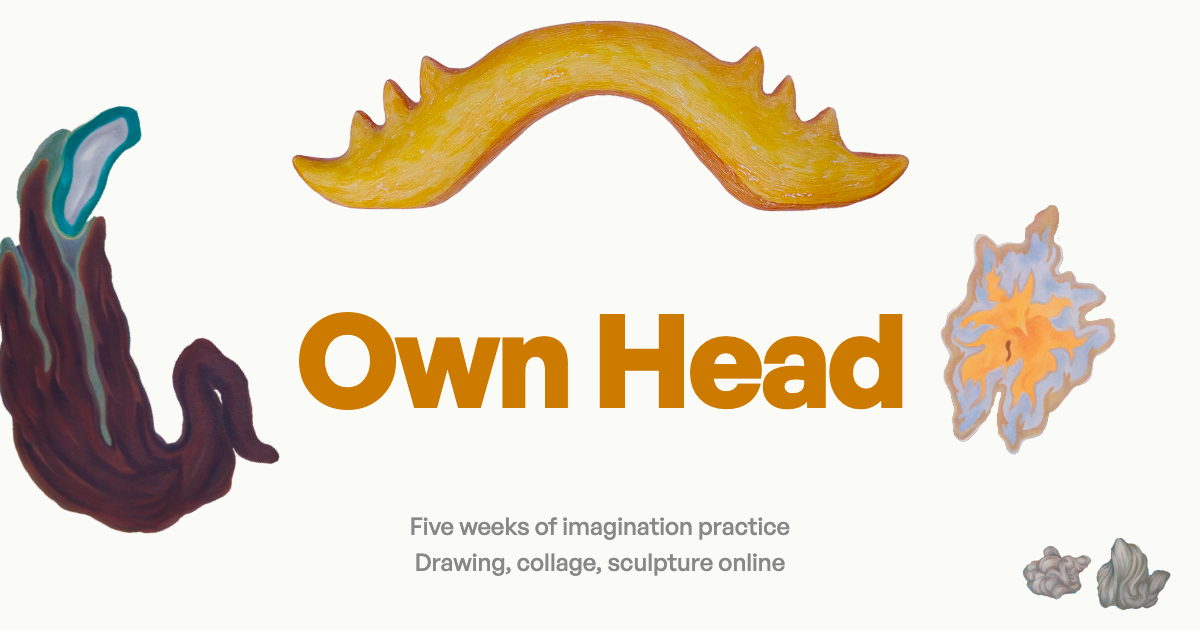
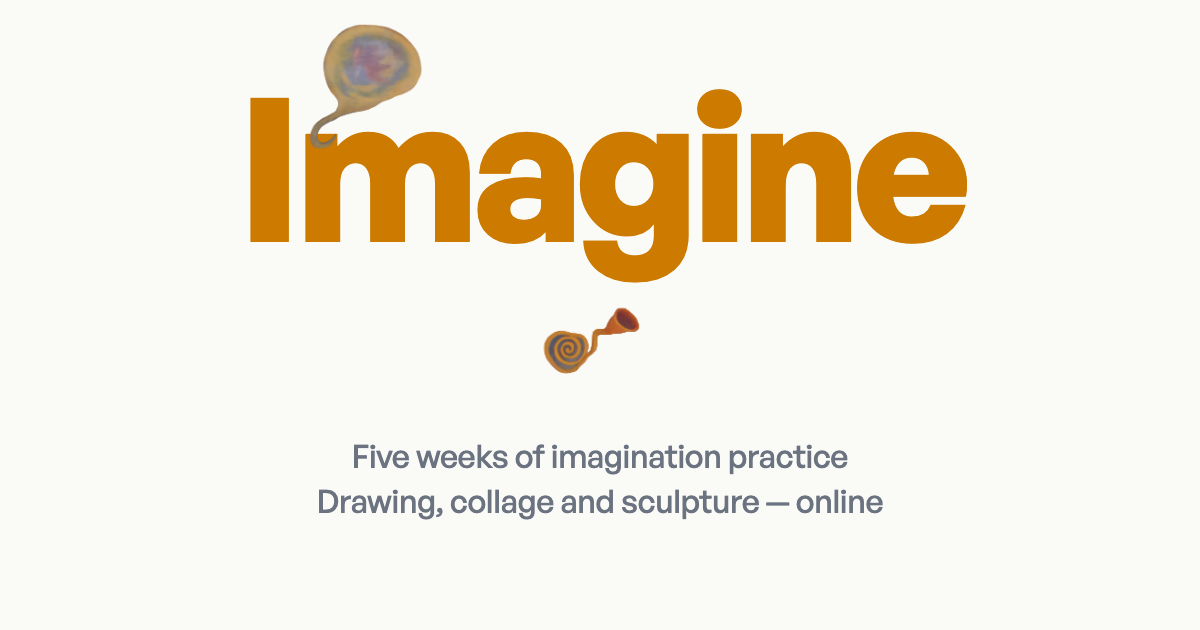
Refresh Imagine OG image and shorten zine wording
- New OG image with current "Imagine" title (was still "Own Head")
- Replace "A printed zine with work from everyone" with "A printed group zine" across the page

diff --git a/src/imagine/en/index.html b/src/imagine/en/index.html
@@ -156,7 +156,7 @@ body { background-color: #FAFAF7; overflow-x: hidden; }
         <li><span class="inline-block w-2.5 h-2.5 rounded-full mr-3 align-middle" style="background-color: #CC7A00;"></span>A series of works — 10–15 drawings, collages and sculptures that grow out of your memory and personal images</li>
         <li><span class="inline-block w-2.5 h-2.5 rounded-full mr-3 align-middle" style="background-color: #CC7A00;"></span>Experiment with materials and form to find your own visual language</li>
         <li><span class="inline-block w-2.5 h-2.5 rounded-full mr-3 align-middle" style="background-color: #CC7A00;"></span>Learn to work in series — to see how one piece talks to the next</li>
-        <li><span class="inline-block w-2.5 h-2.5 rounded-full mr-3 align-middle" style="background-color: #CC7A00;"></span>Take part in a shared printed zine featuring everyone's work</li>
+        <li><span class="inline-block w-2.5 h-2.5 rounded-full mr-3 align-middle" style="background-color: #CC7A00;"></span>Take part in a printed group zine</li>
         <li><span class="inline-block w-2.5 h-2.5 rounded-full mr-3 align-middle" style="background-color: #CC7A00;"></span>Mix different drawing materials together — and see what happens at the seams</li>
         <li><span class="inline-block w-2.5 h-2.5 rounded-full mr-3 align-middle" style="background-color: #CC7A00;"></span>Understand how line and mass work, and learn to pick a material to fit the task</li>
         <li><span class="inline-block w-2.5 h-2.5 rounded-full mr-3 align-middle" style="background-color: #CC7A00;"></span>Use collage as a way of thinking — cutting, cropping and reassembling fragments into something new</li>
@@ -284,7 +284,7 @@ body { background-color: #FAFAF7; overflow-x: hidden; }
         <li><span class="mr-2" style="color: #CC7A00;">&gt;</span>Shared chat with everyone in the group</li>
         <li><span class="mr-2" style="color: #CC7A00;">&gt;</span>Your own digital board</li>
         <li><span class="mr-2" style="color: #CC7A00;">&gt;</span>Unlimited access to all recordings</li>
-        <li><span class="mr-2" style="color: #CC7A00;">&gt;</span>A printed zine with work from everyone</li>
+        <li><span class="mr-2" style="color: #CC7A00;">&gt;</span>A printed group zine</li>
       </ul>
     </div>
 
@@ -299,7 +299,7 @@ body { background-color: #FAFAF7; overflow-x: hidden; }
         <li><span class="mr-2" style="color: #CC7A00;">&gt;</span>Shared chat with everyone in the group</li>
         <li><span class="mr-2" style="color: #CC7A00;">&gt;</span>Your own digital board</li>
         <li><span class="mr-2" style="color: #CC7A00;">&gt;</span>Unlimited access to all recordings</li>
-        <li><span class="mr-2" style="color: #CC7A00;">&gt;</span>A printed zine with work from everyone</li>
+        <li><span class="mr-2" style="color: #CC7A00;">&gt;</span>A printed group zine</li>
         <li class="pt-3 font-bold text-gray-900"><span class="mr-2" style="color: #CC7A00;">+</span>Three 40-minute one-on-one tutorials with Yulia</li>
         <li class="text-gray-600 pl-6">In-depth time for your practice — bring a work that's stuck, a question about materials, or wider questions about where you are and where you want to go.</li>
       </ul>